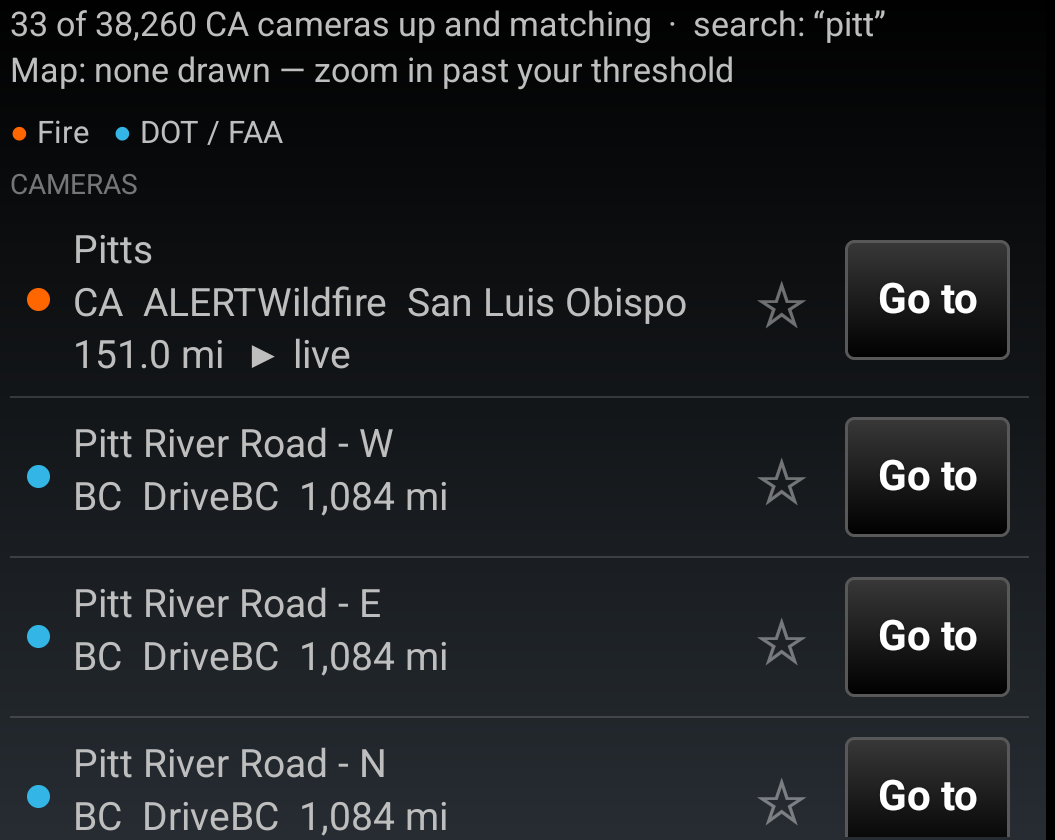
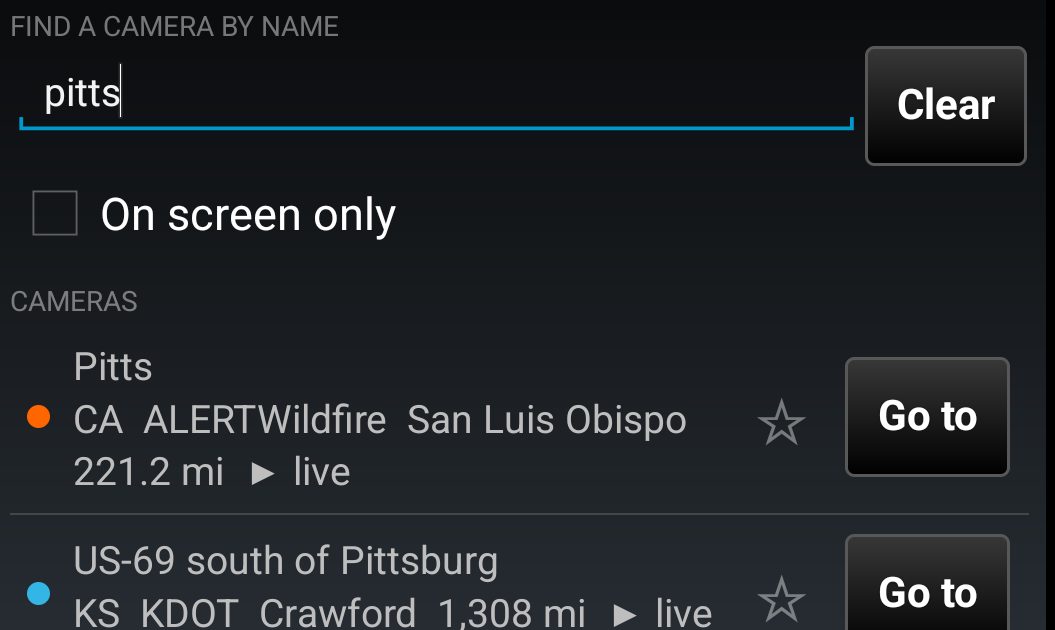
Manual and guide: document what 1.0 actually does
Both documents described the plugin as it was two versions ago in several places,
and three shipped features had no documentation at all.

WRONG, now corrected:

  * The distance section described "From me", a button that no longer exists. It
    is a full section now: the slider to 50, Measuring from naming the point it
    is measured from, Use this extent, and Presets naming the one in force.
  * Search: the shot showed "pitt" finding British Columbia. The retake used
    "pitts" and found Kansas, so the prose says California to Kansas, 1,300 miles
    apart. Picture and text agree again.
  * "about 9,000 stream" -> about 10,500. Indiana's 242 plus growth elsewhere.

UNDOCUMENTED, now written down:

  * Turn off all bearings, shipped in 0.9 and never mentioned. Carries the count,
    greys out at zero, clears lines on cameras that are off screen.
  * A bearing survives panning away from its camera and comes back with it.
  * That the radius follows -- with My Location it travels with the operator,
    with Map Center it follows the map -- and that both survive a restart.
  * **That favorites ignore every filter while Favorites First is on.** This is
    the one worth having in writing: a 4 mile radius still drew cameras 167 miles
    out, all of them starred and all behaving exactly as designed, and the only
    way to find that out was to ask. It also says Favorites First is the switch.

Five screenshots, all taken on the tak.gov-signed 1.0 against official ATAK
[…]

diff --git a/docs/USER_GUIDE.md b/docs/USER_GUIDE.md
@@ -96,8 +96,8 @@ are not standing in.
 ## 3. Finding one camera by name
 
 Typing in the search box searches **every state at once**, not only the one in the
-dropdown. Here "pitt" finds a wildfire camera in California and three highway
-cameras in British Columbia together.
+dropdown. Here "pitts" finds a wildfire lookout in California and a highway camera
+in Kansas together, 1,300 miles apart.
 
 ![Searching across states](screenshots/7_search_across_states.png)
 
@@ -129,10 +129,26 @@ discovered.
 
 ![The radius slider](screenshots/9_radius_from_a_point.png)
 
-The radius slider limits the list to cameras within a set distance. By default
-that is measured from your own position; **From me** switches it to measure from
-the center of the map instead, which is what you want when you are planning
-somewhere you are not standing. Distances follow whatever units ATAK is set to.
+### Distance from a point
+
+![The distance controls](screenshots/9_radius_from_a_point.png)
+
+The slider runs to 50 in whatever units ATAK is set to, and the label above it
+always reads the current distance and the point it is measured from.
+
+- **Measuring from** rotates between your own position and the center of the map,
+  and says which one is in force rather than only offering to change it.
+- **Use this extent** takes the radius from what is on screen, so "everything I am
+  looking at" is one tap rather than a guess at a number.
+- **Presets** offers Off, 2, 5, 10, 25 and 50, and names the one in force. Drag the
+  slider to something in between and it reads **Presets** again.
+
+![Radius presets](screenshots/26_radius_presets.png)
+
+**It follows.** Measured from *My Location* the circle travels with you, so a
+radius set at the start of a drive still means the same thing an hour later.
+Measured from *Map Center* it follows the map — pan somewhere else and the list is
+about where you are now looking. Both survive restarting ATAK.
 
 ---
 
@@ -154,6 +170,12 @@ They get their own section, with the whole state still below it:
 Favorites are not tied to a state. A lookout in California and a highway camera in
 Ontario sit in the same list, so the handful you actually watch stays within reach
 without giving up the rest of the catalog.
+
+**While Favorites First is on, a favorite ignores every filter.** State, county,
+radius and the Show boxes all pass it by, and it stays on the map whatever the
+panel says — which is the point: a camera you starred does not vanish because of a
+setting you left on an hour ago. The status line says so. Turn Favorites First off
+and they become ordinary cameras again, filtered like everything else.
 
 The same star appears in the camera's own pane, so you can mark one while you are
 looking at it.
@@ -189,7 +211,7 @@ Where the agency publishes a stream, **Live video** plays it in ATAK's own playe
 
 Not every camera has one. A camera that only publishes pictures says
 **Video (still only)** rather than offering a button that cannot work. Of the
-38,000 cameras in the catalog, about 9,000 stream.
+38,000 cameras in the catalog, about 10,500 stream.
 
 Streams are checked before they are published, so a camera that offers video was
 serving video when the catalog was built. Agencies do have outages; when one does,
@@ -225,7 +247,16 @@ map, labeled with its azimuth.
 
 **Show bearing** turns it on, and the marker turns orange while it is on. On a
 steerable camera the line follows the camera as it moves, updating every few
-seconds.
+seconds. A bearing stays on when you pan away from its camera and comes back with
+it, so looking at something else does not put it away.
+
+Bearings go on one camera at a time, so the panel has one control to put them all
+away:
+
+![Turn off all bearings](screenshots/27_turn_off_bearings.png)
+
+It carries the count, is greyed out when there are none, and clears lines on
+cameras that are currently off screen as well as the ones in front of you.
 
 ![The button flips to Hide bearing](screenshots/17_hide_bearing.png)
 
